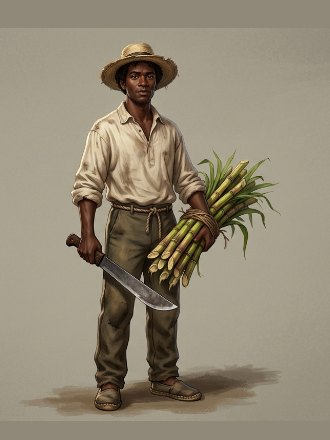
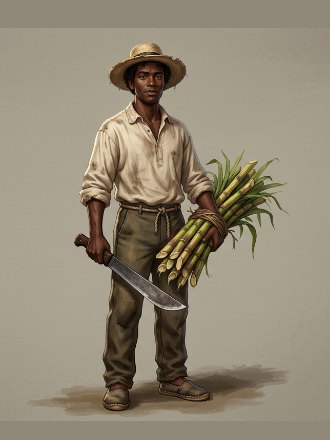
juego-12 Tema 3: centrar las figuras por su centro de masa
El punto medio entre los extremos de la figura se corre cuando hay un
mueble pegado o una sombra: la oficinista salia descentrada por su
mesita. Ahora el encuadre usa el centro de masa de los pixeles de la
figura, que pesa por cuanta persona hay en cada columna.

diff --git a/juegos/juego-12/.planning/optimizar-j6t3.js b/juegos/juego-12/.planning/optimizar-j6t3.js
@@ -101,7 +101,13 @@ const ANCHO = 330, ALTO = 440, CALIDAD = 0.86;
       const ALTO_FIG = 0.84, PIE = 0.06;      // 84 % de alto, 6 % de aire bajo los pies
       const anchoFig = x1 - x0, altoFig = y1 - y0;
       const escala = altoFig / ALTO_FIG;      // alto que debe tener el recorte
-      const cxm = (x0 + x1) / 2;
+      // ⚠ El centro NO es el punto medio entre los extremos: un mueble pegado a la figura
+      // o su sombra corren ese punto y la persona queda descentrada (pasó con la
+      // oficinista y su mesita). Se usa el CENTRO DE MASA de los píxeles marcados, que
+      // pesa por cuánta figura hay en cada columna.
+      let suma = 0, peso = 0;
+      for (let x = x0; x <= x1; x++) { suma += x * col[x]; peso += col[x]; }
+      const cxm = peso ? suma / peso : (x0 + x1) / 2;
       let cy1 = y1 + escala * PIE;
       let cy0 = cy1 - escala;
       let cx0 = cxm - (escala * (ANCHO / ALTO)) / 2;
